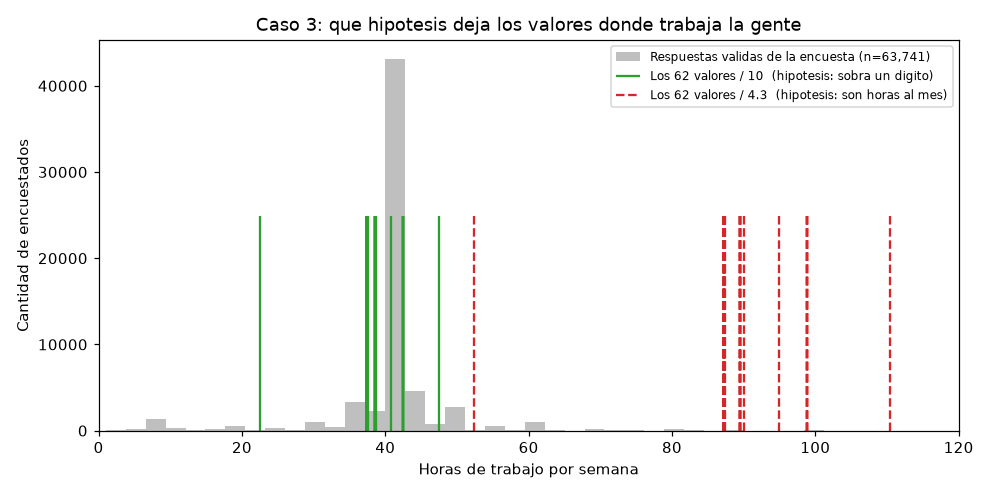
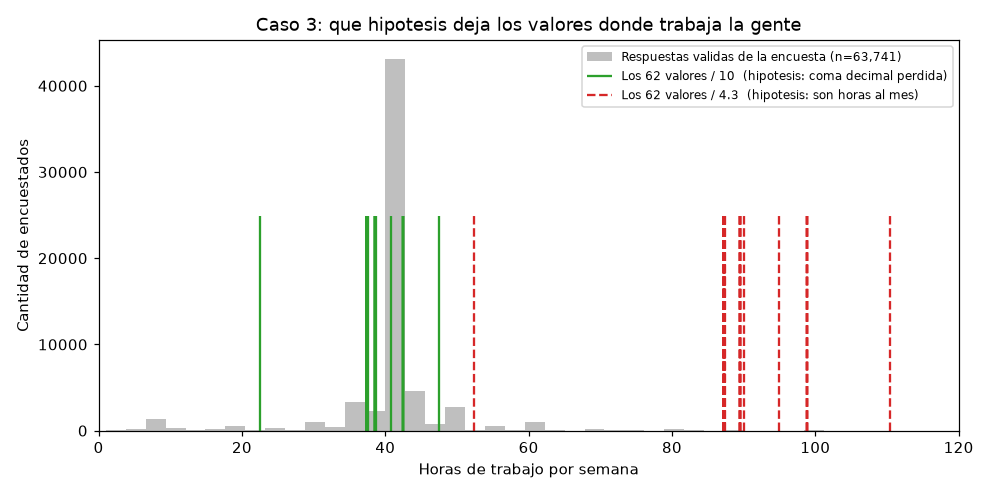
docs(limpieza): name the real mechanism behind the WorkWeekHrs correction
The values above 168 were being explained as a stray digit. The data points
at something more specific: they concentrate in Norway at 22.6% against 0.6%
of the dataset, Finland at 19.4% against 0.5% and Austria at 9.7% against
0.8%. Those countries work a 37.5-hour week and write decimals with a comma,
and 375 is the value in 44 of the 62 cases.

So the correction reconstructs a separator the form swallowed rather than
removing an invented digit, which is a different and far easier claim to
defend. The classification and the action are unchanged.

The script now prints the country concentration and the share of independent
workers, 1.6% among the 62 against 8.8% overall, which rules out the
consultant reading.

Changed region(s): [[0.5758, 0.0909, 0.9697, 0.2121]]

diff --git a/limpieza_stackoverflow.py b/limpieza_stackoverflow.py
@@ -831,20 +831,28 @@ print(f"\nCaso 2 - Age: {mascara_edad_contaminante.sum()} registro(s) con "
       f"Accion: se reemplazan por la mediana ({mediana_age:.0f} anios).")
 df.loc[mascara_edad_contaminante, "Age"] = mediana_age
 
-# --- Caso 3: WorkWeekHrs > 168 -> error de escala (sobra un digito) -----
+# --- Caso 3: WorkWeekHrs > 168 -> error de escala (separador decimal) ---
 # Una semana solo tiene 168 horas (24 x 7), asi que CUALQUIER valor por
-# encima de eso es fisicamente imposible. Al dividir estos valores entre 10
-# todos caen en un rango de horas de trabajo perfectamente creible
-# (22.5 a 47.5 horas/semana), lo que sugiere que a la persona se le fue un
-# digito de mas (o le sobra un cero). Clasificacion: ERROR DE ESCALA.
-# Accion: CORREGIR dividiendo entre 10 (no eliminar).
+# encima de eso es fisicamente imposible.
+#
+# El mecanismo del error no es un digito de mas: es una coma decimal perdida.
+# La evidencia que se imprime abajo lo sostiene. Estos registros se concentran
+# de forma brutal en Noruega, Finlandia y Austria, paises donde la jornada
+# estandar es de 37,5 horas y donde el decimal se escribe con COMA. El valor
+# que mas se repite es exactamente 375, que es "37,5" al que el formulario le
+# comio el separador. Y no son freelancers ni gente con sueldos raros: son
+# empleados de sueldo mediano normal.
+#
+# Clasificacion: ERROR DE UNIDAD O ESCALA.
+# Accion: CORREGIR dividiendo entre 10. Eso no inventa un valor: reconstruye
+# el separador que se perdio al capturar la respuesta.
 mascara_horas_imposibles = df["WorkWeekHrs"] > 168
 valores_antes_correccion = df.loc[mascara_horas_imposibles, "WorkWeekHrs"].tolist()
 print(f"\nCaso 3 - WorkWeekHrs: {mascara_horas_imposibles.sum()} registro(s) "
       f"por encima de 168 horas/semana (fisicamente imposible). "
       f"Valores originales: {sorted(valores_antes_correccion)}")
 df.loc[mascara_horas_imposibles, "WorkWeekHrs"] = df.loc[mascara_horas_imposibles, "WorkWeekHrs"] / 10
-print("Clasificacion: ERROR DE ESCALA (sobra un digito). "
+print("Clasificacion: ERROR DE UNIDAD O ESCALA (coma decimal perdida). "
       "Accion: se corrige dividiendo entre 10. Valores corregidos:",
       sorted(df.loc[mascara_horas_imposibles, "WorkWeekHrs"].tolist()))
 
@@ -866,10 +874,10 @@ if mascara_horas_imposibles.any():
           f"dentro de ese rango.")
     print(f"     Ninguno queda fuera de una jornada humana posible: el "
           f"minimo son {corregidos.min():.1f} horas y el maximo "
-          f"{corregidos.max():.1f}. Eso es lo que sostiene la hipotesis del "
-          f"digito de mas. Si al dividir quedaran horas imposibles, la "
-          f"correccion seria un invento y habria que tratarlos como "
-          f"faltantes.")
+          f"{corregidos.max():.1f}. Dividir entre 10 podria haber dado "
+          f"jornadas absurdas y no las dio: esa es la prueba. Si al dividir "
+          f"quedaran horas imposibles, la correccion seria un invento y "
+          f"habria que tratarlos como faltantes.")
 
 # Grafica de apoyo para el caso 3. La hipotesis del digito de mas compite con
 # otra igual de razonable a primera vista: que la persona haya respondido horas
@@ -887,7 +895,7 @@ if mascara_horas_imposibles.any():
             label=f"Respuestas validas de la encuesta (n={len(horas_reales):,})")
     tope = ax.get_ylim()[1]
     ax.vlines(bajo_hipotesis_digito, 0, tope * 0.55, color="tab:green", linewidth=1.5,
-              label="Los 62 valores / 10  (hipotesis: sobra un digito)")
+              label="Los 62 valores / 10  (hipotesis: coma decimal perdida)")
     ax.vlines(bajo_hipotesis_mes, 0, tope * 0.55, color="tab:red", linewidth=1.5,
               linestyle="--", label="Los 62 valores / 4.3  (hipotesis: son horas al mes)")
     ax.set_xlim(0, 120)
@@ -902,18 +910,46 @@ if mascara_horas_imposibles.any():
 
     fuera_digito = (bajo_hipotesis_digito > 60).sum()
     fuera_mes = (bajo_hipotesis_mes > 60).sum()
-    print(f"\n     Comparacion de las dos hipotesis, contando cuantos quedan "
-          f"por encima de 60 h/semana:")
-    print(f"       dividir entre 10  (sobra un digito): {fuera_digito} de "
+    print(f"\n     Evidencia 1 - comparacion de las dos hipotesis, contando "
+          f"cuantos quedan por encima de 60 h/semana:")
+    print(f"       dividir entre 10  (coma decimal perdida): {fuera_digito} de "
           f"{len(bajo_hipotesis_digito)}")
-    print(f"       dividir entre 4.3 (horas al mes):    {fuera_mes} de "
+    print(f"       dividir entre 4.3 (horas al mes):         {fuera_mes} de "
           f"{len(bajo_hipotesis_mes)}")
     repetido = pd.Series(valores_antes_correccion).value_counts().idxmax()
     n_repetido = pd.Series(valores_antes_correccion).value_counts().max()
     print(f"       El valor mas repetido es {repetido:.0f} "
           f"({n_repetido} de {len(valores_antes_correccion)} casos), que "
           f"entre 10 da {repetido/10:.1f} h/semana.")
-    print(f"     Grafica: {ruta_figura_caso3.relative_to(RAIZ)}")
+
+    # De donde son estas personas. Si el error fuera azar de tipeo, los paises
+    # se repartirian como en el resto de la encuesta. No se reparten asi.
+    paises_62 = (df.loc[mascara_horas_imposibles, "Country"]
+                 .value_counts(normalize=True) * 100)
+    paises_todos = df["Country"].value_counts(normalize=True) * 100
+    comparacion_62 = pd.DataFrame({
+        "pct_entre_los_62": paises_62.head(5).round(1),
+        "pct_en_el_dataset": paises_todos.reindex(paises_62.head(5).index).round(1),
+    })
+    print("\n     Evidencia 2 - de donde son. Si fuera azar de tipeo, estos "
+          "porcentajes serian parecidos:")
+    print(comparacion_62.to_string())
+    print("       Noruega y Finlandia tienen jornada estandar de 37,5 horas y "
+          "escriben el decimal con coma. El 375 es '37,5' sin el separador.")
+
+    # Y no son consultores ni freelancers, que seria la explicacion alternativa
+    # mas creible para una jornada declarada fuera de lo normal.
+    if "Employment" in df.columns:
+        def pct_independiente(sub):
+            texto = sub["Employment"].astype(str).str.lower()
+            return texto.str.contains("freelanc|self-employed", regex=True).mean() * 100
+        ind_62 = pct_independiente(df[mascara_horas_imposibles])
+        ind_resto = pct_independiente(df[~mascara_horas_imposibles])
+        print(f"\n     Evidencia 3 - independientes: {ind_62:.1f}% entre los 62 "
+              f"contra {ind_resto:.1f}% en el resto. No son consultores "
+              f"facturando por hora: son empleados.")
+
+    print(f"\n     Grafica: {ruta_figura_caso3.relative_to(RAIZ)}")
 
 
 # --- Caso 4 (OBLIGATORIO): un atipico que NO se debe eliminar -----------

diff --git a/EVIDENCIA-DANIEL.md b/EVIDENCIA-DANIEL.md
@@ -36,14 +36,38 @@ Defiéndala.*
 vez de eliminarlos o tratarlos como faltantes. Una semana tiene 168 horas (24 × 7), así
 que cualquier valor por encima es físicamente imposible.
 
+### El mecanismo real: no sobraba un dígito, se perdió la coma
+
+La primera lectura es "a la persona se le fue un dígito". Los datos dicen algo más
+preciso, y más fácil de defender.
+
+**De dónde son los 62:**
+
+| País | % entre los 62 | % en el dataset |
+|---|---|---|
+| **Noruega** | **22,6%** | 0,6% |
+| **Finlandia** | **19,4%** | 0,5% |
+| Alemania | 12,9% | 6,1% |
+| **Austria** | **9,7%** | 0,8% |
+| Francia | 8,1% | 3,0% |
+
+Noruega aparece 37 veces más de lo que le correspondería; Finlandia, 39 veces más. Si
+fuera azar de tipeo, los países se repartirían como en el resto de la encuesta.
+
+**La jornada estándar en Noruega y Finlandia es de 37,5 horas, y esos países escriben el
+decimal con coma.** El `375` que aparece 44 veces es `37,5` al que el formulario le comió
+el separador.
+
+Eso cambia la naturaleza de la corrección: dividir entre 10 no inventa un número,
+**reconstruye un separador perdido en la captura**.
+
 ### La hipótesis rival que hay que derribar
 
-Dividir entre 10 asume que sobraba un dígito. Pero hay otra lectura igual de razonable a
-primera vista: **que la persona respondió horas al MES** en vez de a la semana. Si fuera
-así, habría que dividir entre 4,3 (semanas por mes), no entre 10.
+Queda otra lectura posible: **que la persona respondió horas al MES** en vez de a la
+semana. Si fuera así habría que dividir entre 4,3 (semanas por mes), no entre 10.
 
-Las dos hipótesis se pueden medir contra la misma pregunta: *¿cuál deja los valores donde
-trabaja la gente de verdad?*
+Las dos se miden contra la misma pregunta: *¿cuál deja los valores donde trabaja la gente
+de verdad?*
 
 ### Los 62 valores, uno por uno
 
@@ -68,10 +92,12 @@ trabaja la gente de verdad?*
 
 ### Tres datos más que suman
 
-- **44 de los 62 valores son exactamente `375`.** Entre 10 da 37,5 h/semana, que es la
-  jornada estándar de buena parte de Europa.
-- **59 de los 62 terminan en 5 o en 0** — el patrón de alguien escribiendo un número
-  redondo, no de una medición.
+- **44 de los 62 valores son exactamente `375`.** Si fueran 62 personas reportando
+  realidades distintas, no tendrían por qué coincidir.
+- **No son consultores.** Independientes (freelance o cuenta propia): **1,6% entre los 62
+  contra 8,8% en el dataset**. Son empleados, no gente facturando por hora.
+- **Sueldo mediano de los 44 que escribieron `375`: 55.718 USD**, contra 54.049 del resto
+  de la encuesta. Gente absolutamente promedio.
 - Los valores más frecuentes en el resto de la encuesta: **40 h** (19.292 respuestas),
   45 h (3.787), 50 h (2.747), 35 h (2.000), 38 h (1.352).
 
@@ -88,10 +114,12 @@ La regenera el script en `salidas/graficas/atipicos_WorkWeekHrs_hipotesis.png`.
 ### ⬜ Falta escribir
 
 - **Movimiento 3:** ¿por qué el hecho de que los 62 caigan en jornadas creíbles al
-  dividir entre 10 prueba que sobraba un dígito? ¿Qué se habría visto si la hipótesis
-  fuera falsa?
-- **Movimiento 4:** dividir entre 10 escribe un número que el encuestado nunca puso.
-  ¿Bajo qué supuesto es legítimo? ¿Qué pasa si ese supuesto no se cumple?
+  dividir entre 10 prueba que hubo un error de captura? ¿Qué se habría visto si la
+  hipótesis fuera falsa? (Pista: dividir entre 10 es aritmética, no sabe nada de horas
+  de trabajo. Podría haber dado 3 h o 90 h. Dio jornadas normales 62 veces de 62.)
+- **Movimiento 4:** dividir entre 10 escribe un número que el encuestado no tecleó.
+  ¿Por qué reconstruir una coma perdida no es lo mismo que inventar un dato? ¿Qué
+  quedaría sin explicar si los países NO se concentraran como se concentran?
 
 ---
 
